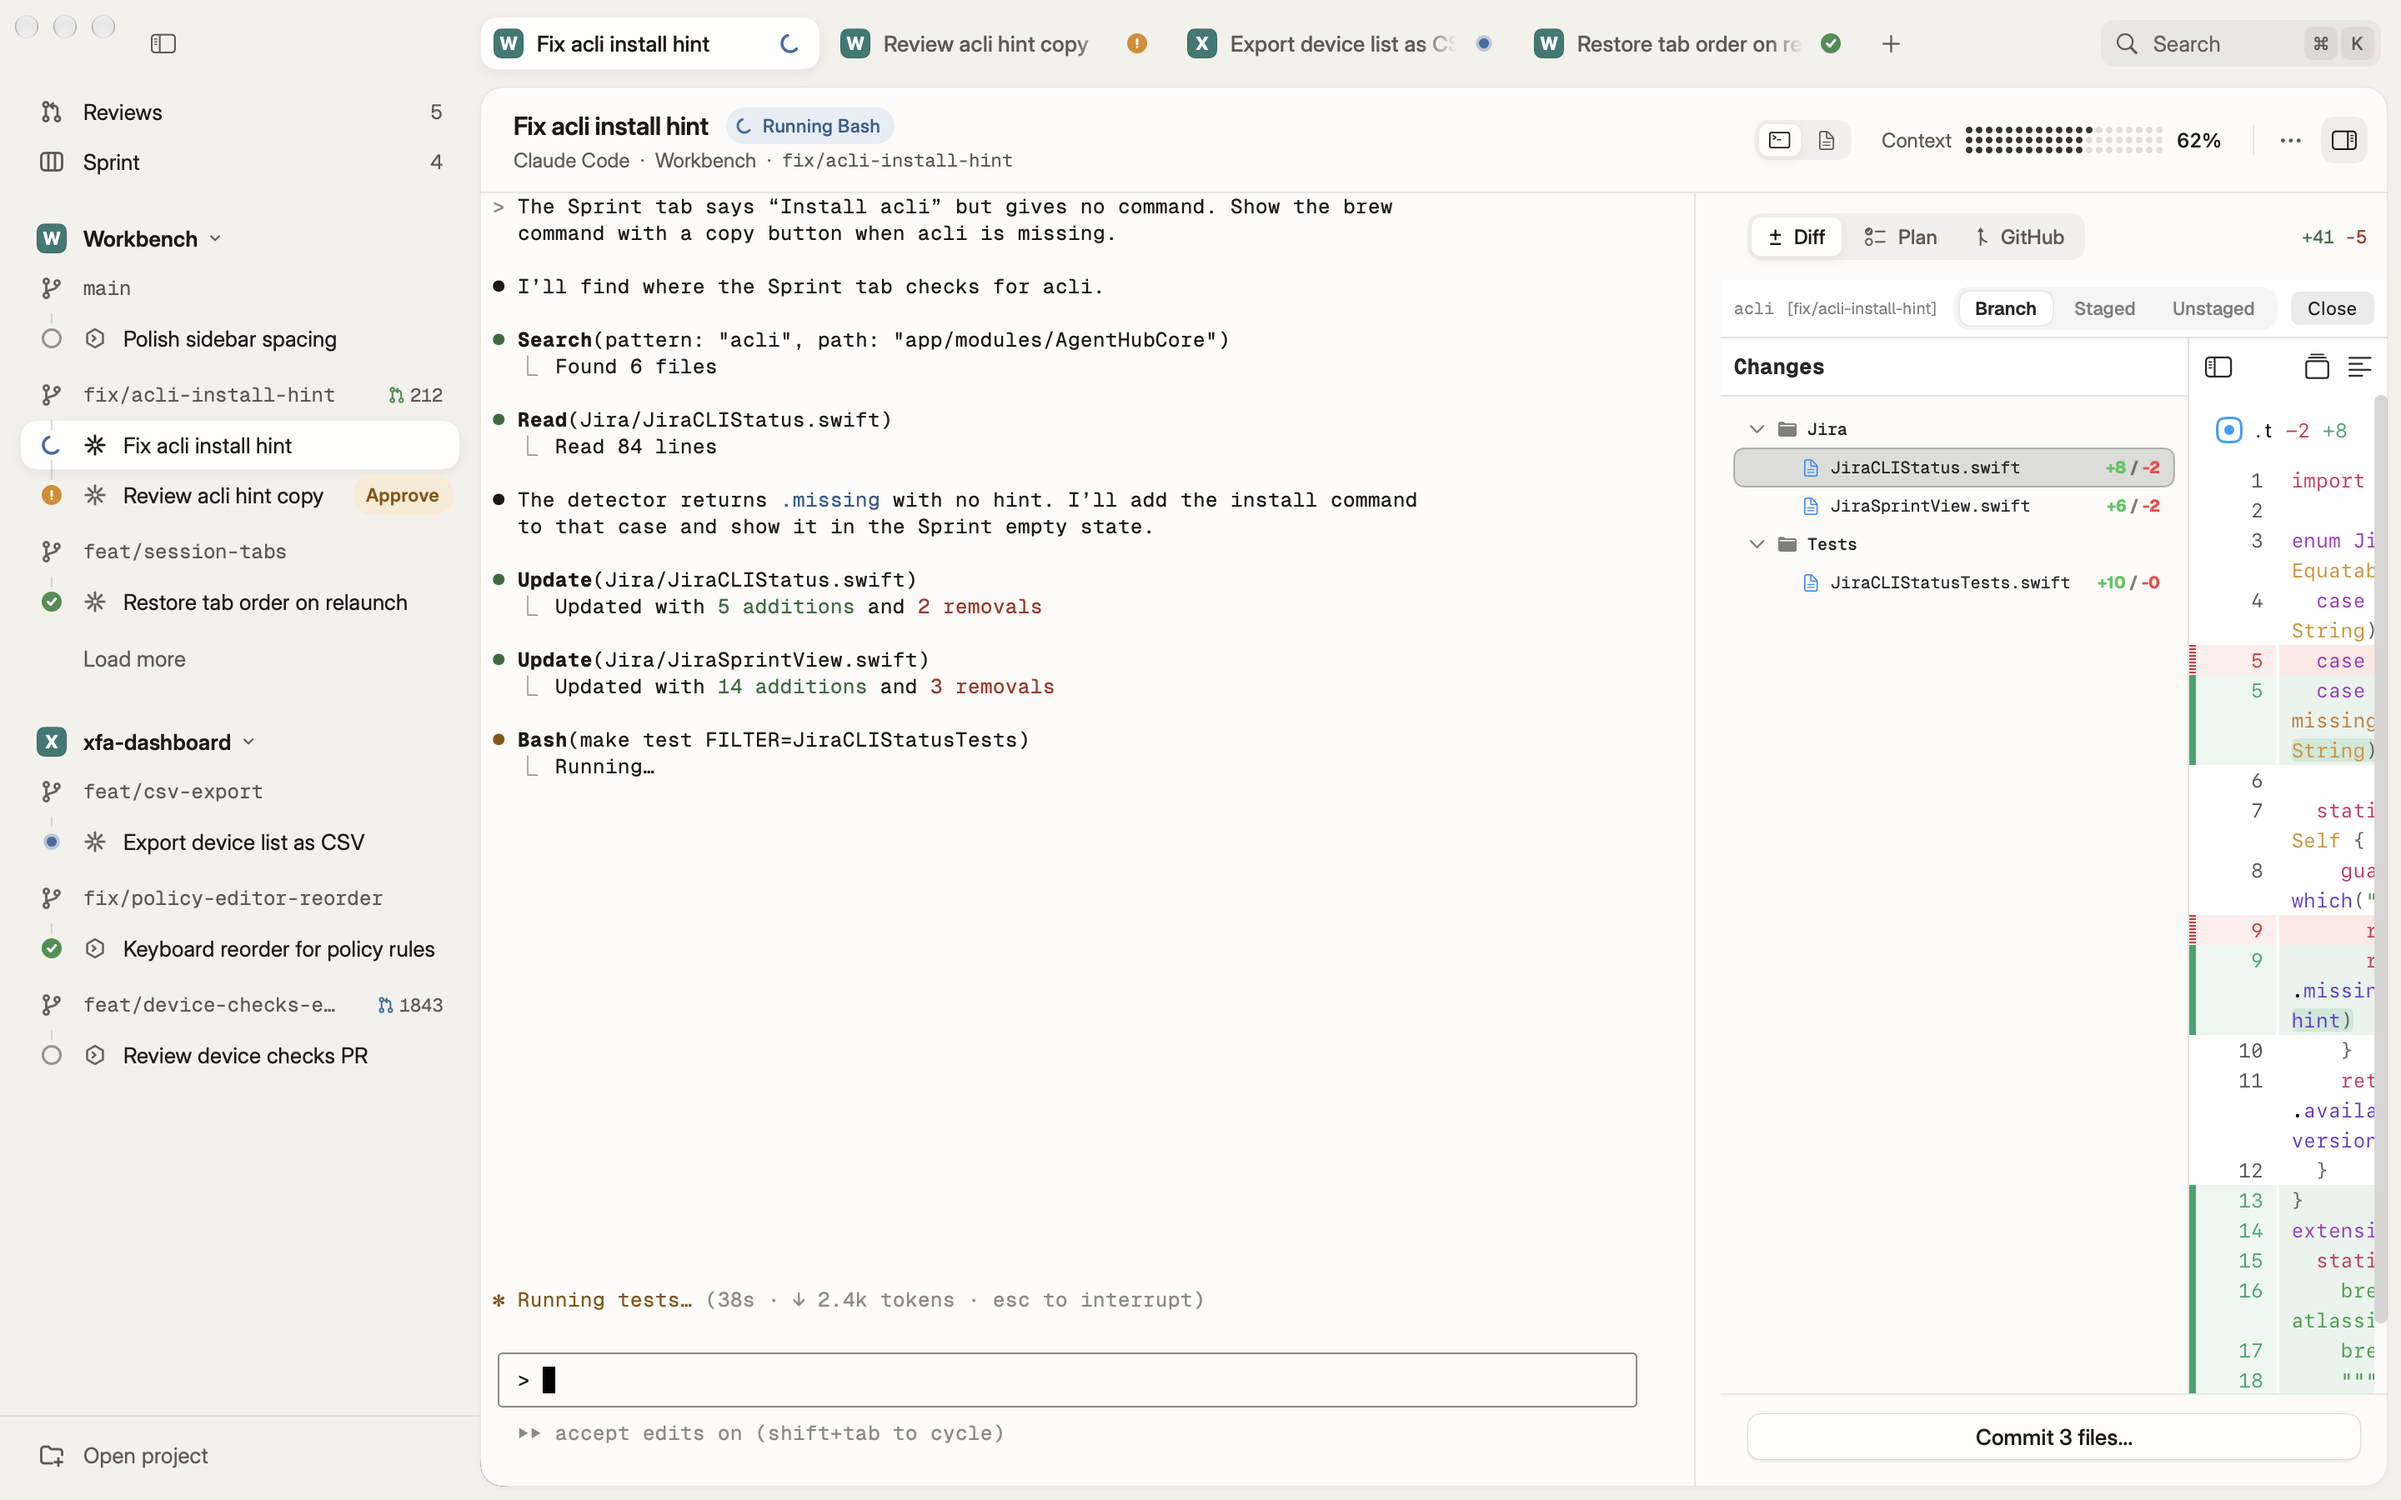
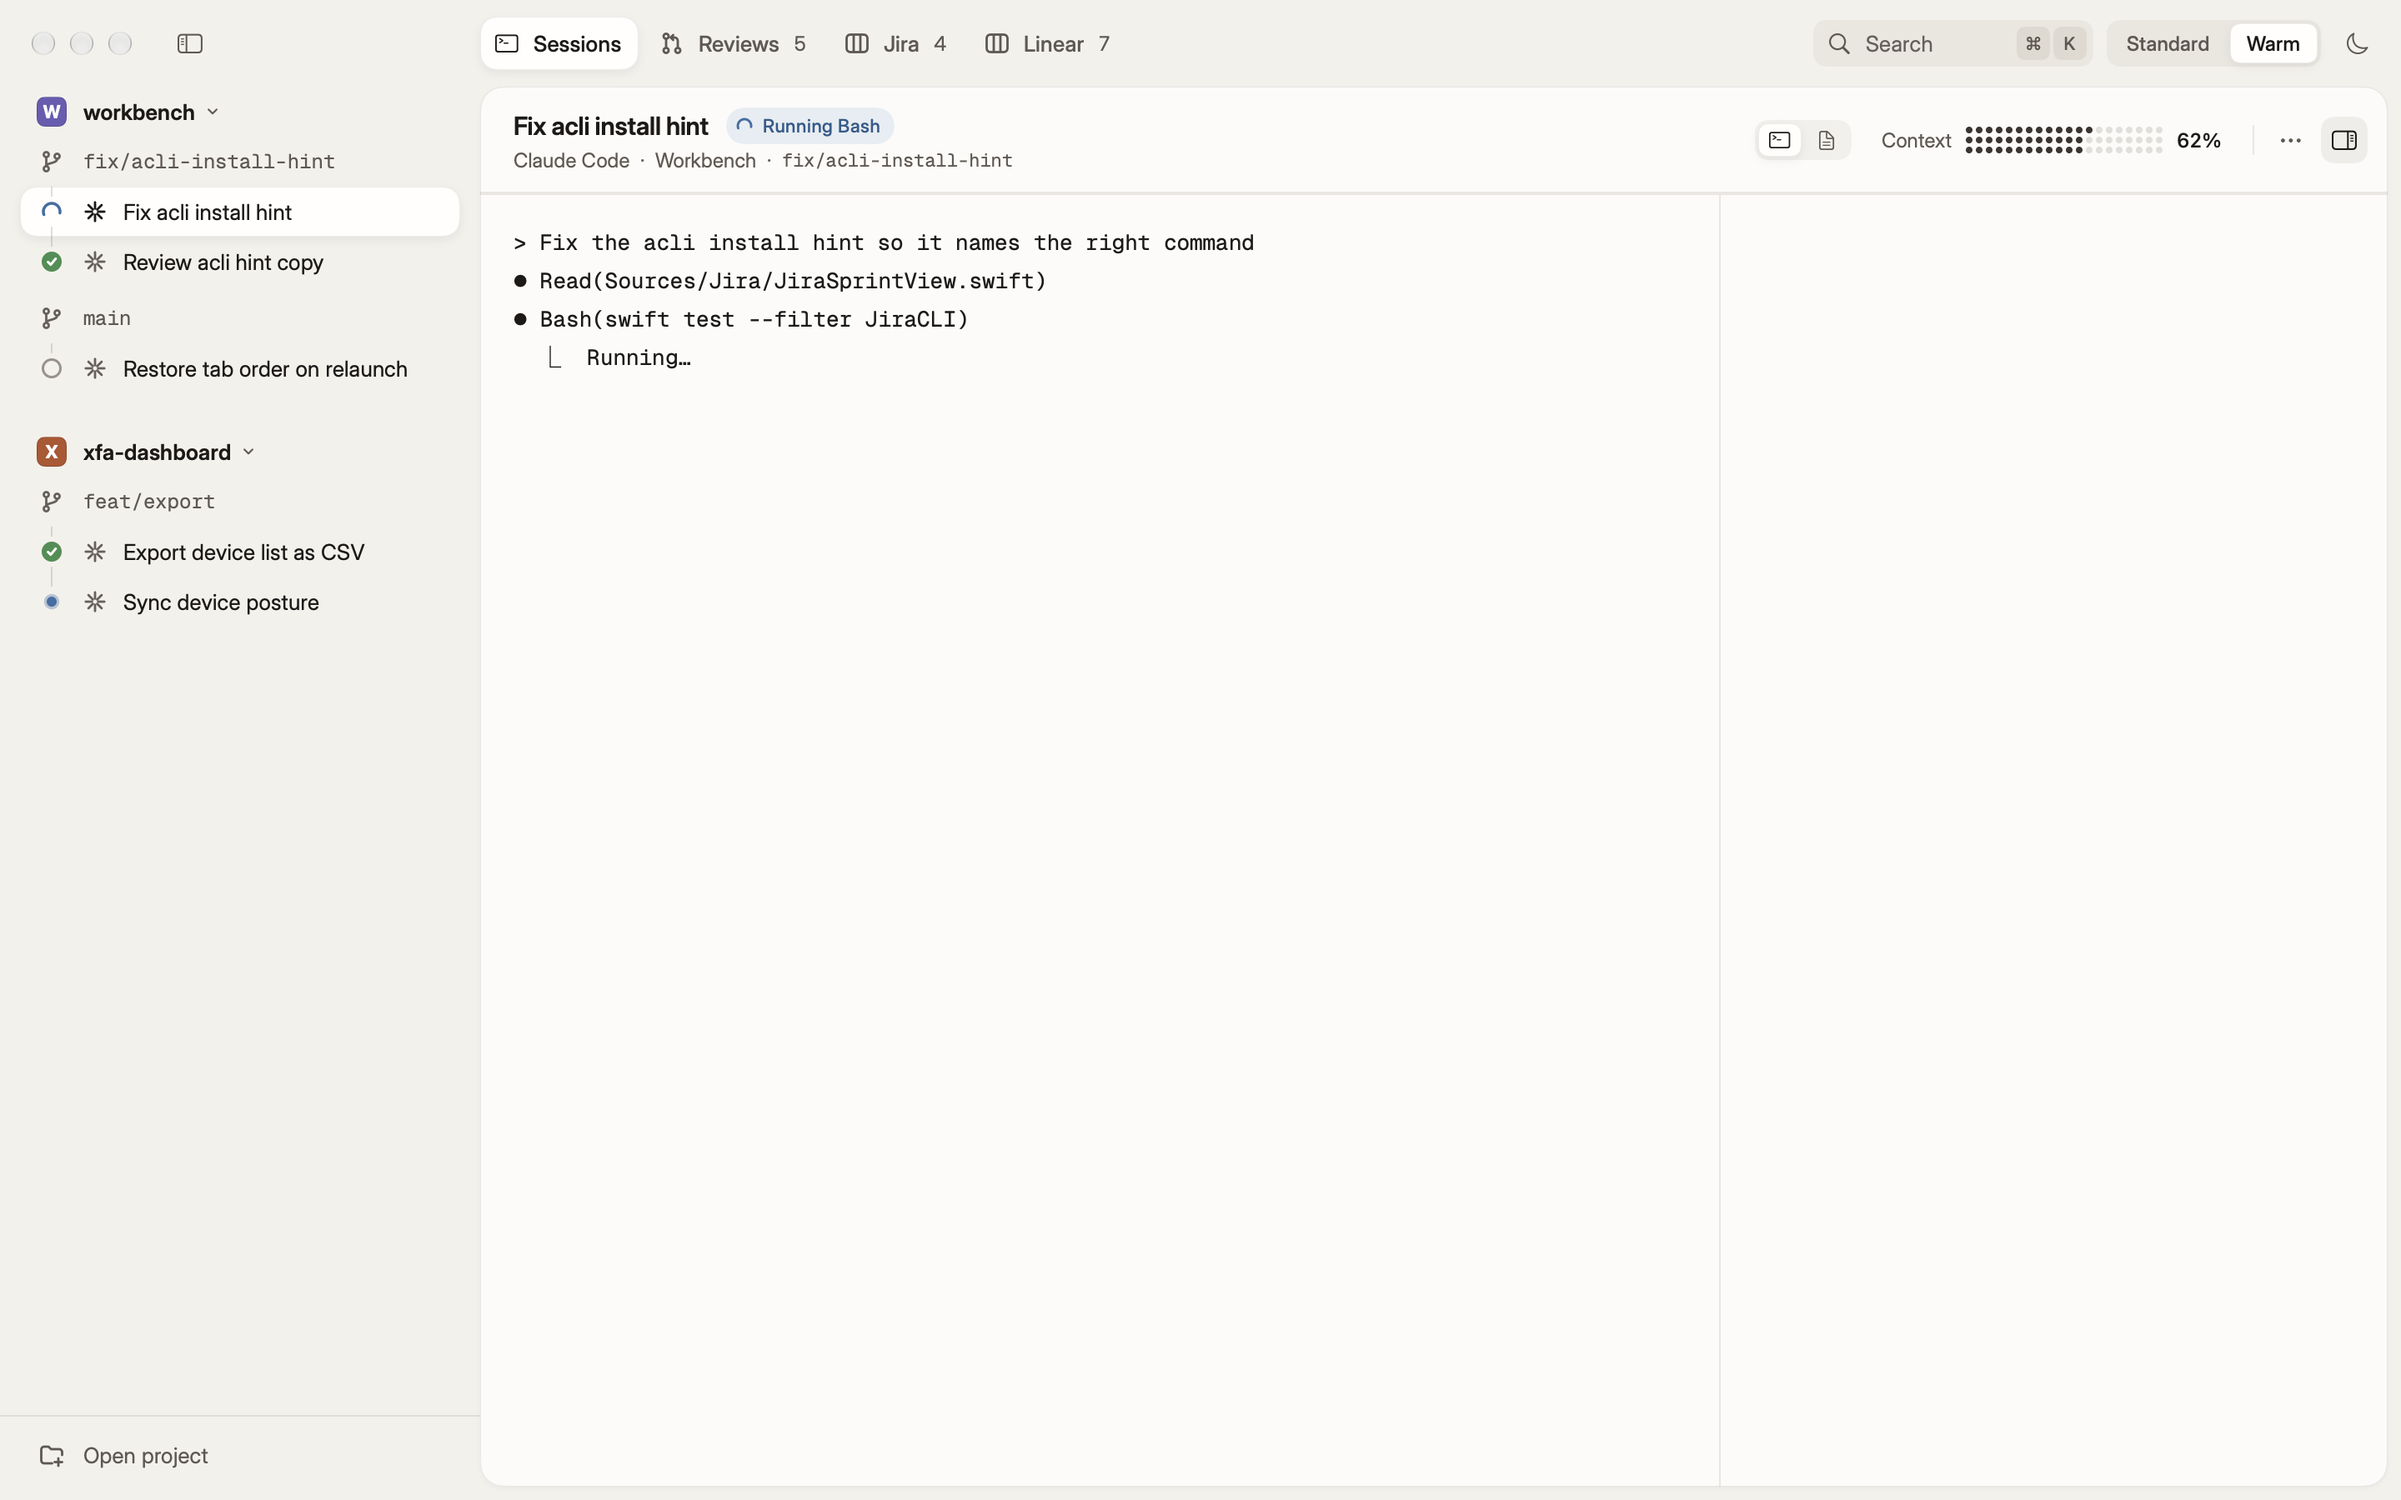
docs: README screenshots from the current interface

diff --git a/README.md b/README.md
@@ -1,13 +1,13 @@
 # AgentHub
 
-<img width="1440" height="900" alt="Sessions: the repo, branch and session tree, a running Claude session and the Diff side panel (Standard, light)" src="docs/screenshots/sessions-standard-light.png" />
+<img width="1440" height="900" alt="Sessions: destination tabs, the repo, branch and session tree, and a Claude session waiting for approval (Standard, light)" src="docs/screenshots/sessions-light.png" />
 
 ## Features
 
-<img width="1440" height="900" alt="Sessions in dark mode (Standard palette)" src="docs/screenshots/sessions-standard-dark.png" />
+<img width="1440" height="900" alt="Sessions in dark mode (Standard palette)" src="docs/screenshots/sessions-dark.png" />
 <img width="1440" height="900" alt="Sessions with the Warm palette (light)" src="docs/screenshots/sessions-warm-light.png" />
-<img width="1440" height="900" alt="Reviews: pull requests that need your review, with the detail panel" src="docs/screenshots/reviews-standard-light.png" />
-<img width="1440" height="900" alt="Sprint: the Jira board (Standard, dark)" src="docs/screenshots/sprint-standard-dark.png" />
+<img width="1440" height="900" alt="Reviews: the pull request table with the detail panel (dark)" src="docs/screenshots/reviews-dark.png" />
+<img width="1440" height="900" alt="Jira: the sprint board (Standard, dark)" src="docs/screenshots/jira-dark.png" />
 
 - **Multi-provider support** — Monitor and launch Claude Code and Codex sessions side by side
 - **Real-time session monitoring** — Watch all sessions update live via file-system watchers (no polling)
